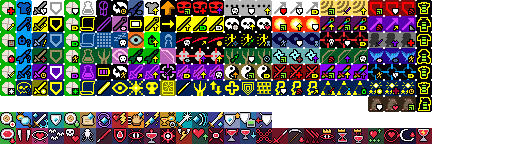
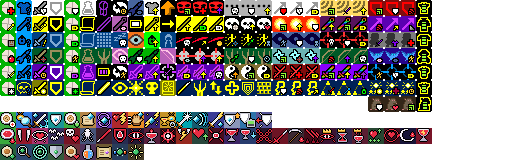
정령사 1·2단계 특성 9개(정령의 식사·정령의 직감·촉매 감응·정령의 보호막 / 정령의 잔치·원소 감응·정령 문자·정령 공명·정령 해방)와 특성 아이콘, 상급 정령 실체화 도트를 32칸 세밀한 도트로 다시 그림(운디네: 푸른 장발의 여성형, 실피드: 날개 달린 여성형, 노움·샐러맨더는 같은 느낌에서 세밀하게)
Claude-Session: https://claude.ai/code/session_01APSKFNB8xpLfNtbCfNBsyA

Changed region(s): [[0.0, 0.875, 0.2812, 1.0]]

diff --git a/core/src/main/java/com/shatteredpixel/shatteredpixeldungeon/actors/hero/Talent.java b/core/src/main/java/com/shatteredpixel/shatteredpixeldungeon/actors/hero/Talent.java
@@ -225,6 +225,11 @@ public enum Talent {
 	ROYAL_PRESENCE(276, 4), ENDLESS_REIGN(277, 4), BLOOD_TRIBUTE(278, 4),
 	FRESH_BLOOD(279, 4), BLOOD_RETURN(280, 4), ENDLESS_NIGHT(281, 4),
 
+	//모드: 정령사 T1
+	SPIRITED_MEAL(288), SPIRIT_INTUITION(289), CATALYST_SENSE(290), SPIRIT_WARD(291),
+	//정령사 T2
+	SPIRIT_FEAST(292), ELEMENTAL_RESONANCE(293), INSCRIBED_SPIRITS(294), SPIRIT_RESONANCE(295), SPIRIT_RELEASE(296),
+
 	//universal T4
 	HEROIC_ENERGY(26, 4), //See icon() and title() for special logic for this one
 	//Ratmogrify T4
@@ -616,6 +621,21 @@ public enum Talent {
 	public static class NatureBerriesDropped extends CounterBuff{{revivePersists = true;}};
 
 	public static void onFoodEaten( Hero hero, float foodVal, Item foodSource ){
+		if (hero.hasTalent(SPIRITED_MEAL)){
+			//정령의 식사: 다음 정령 탄 3/5발의 정령 능력이 1.5배
+			Buff.affect(hero, SpiritedMeal.class).reset(1 + 2*hero.pointsInTalent(SPIRITED_MEAL));
+			if (hero.sprite != null) hero.sprite.emitter().burst(com.shatteredpixel.shatteredpixeldungeon.effects.particles.LeafParticle.GENERAL, 8);
+		}
+		if (hero.hasTalent(SPIRIT_FEAST)){
+			//정령의 잔치: 완드에 깃든 정령 하나당 체력 3/5 회복
+			com.shatteredpixel.shatteredpixeldungeon.items.wands.ForestWand wand = hero.belongings.getItem(com.shatteredpixel.shatteredpixeldungeon.items.wands.ForestWand.class);
+			int n = wand != null ? wand.spiritCount() : 0;
+			int healing = Math.min(n * (1 + 2*hero.pointsInTalent(SPIRIT_FEAST)), hero.HT - hero.HP);
+			if (healing > 0){
+				hero.HP += healing;
+				if (hero.sprite != null) hero.sprite.showStatusWithIcon(CharSprite.POSITIVE, Integer.toString(healing), FloatingText.HEALING);
+			}
+		}
 		if (hero.hasTalent(SANGUINE_MEAL)){
 			//성배에 생명력 3/5
 			com.shatteredpixel.shatteredpixeldungeon.items.artifacts.CrimsonGrail.gainLife(hero, 1 + 2 * hero.pointsInTalent(SANGUINE_MEAL));
@@ -809,6 +829,19 @@ public enum Talent {
 	}
 
 	public static void onScrollUsed( Hero hero, int pos, float factor, Class<?extends Item> cls ){
+		if (hero.hasTalent(INSCRIBED_SPIRITS)
+				&& com.watabou.utils.Random.Float() < factor * hero.pointsInTalent(INSCRIBED_SPIRITS) / 3f){
+			//정령 문자: 1/3, 2/3 확률로 발밑에 강한 정령의 기운이 남음 (깃들이기 촉매)
+			Class<? extends com.shatteredpixel.shatteredpixeldungeon.actors.blobs.SpiritRemnant> r;
+			float roll = com.watabou.utils.Random.Float();
+			if (roll < 0.1f)       r = com.shatteredpixel.shatteredpixeldungeon.actors.blobs.SpiritRemnant.Chaos.class;
+			else if (roll < 0.4f)  r = com.shatteredpixel.shatteredpixeldungeon.actors.blobs.SpiritRemnant.Flame.class;
+			else if (roll < 0.7f)  r = com.shatteredpixel.shatteredpixeldungeon.actors.blobs.SpiritRemnant.Frost.class;
+			else                   r = com.shatteredpixel.shatteredpixeldungeon.actors.blobs.SpiritRemnant.Shock.class;
+			GameScene.add(com.shatteredpixel.shatteredpixeldungeon.actors.blobs.Blob.seed(pos,
+					com.shatteredpixel.shatteredpixeldungeon.actors.blobs.SpiritRemnant.DURATION, r));
+			if (hero.sprite != null) hero.sprite.emitter().burst(Speck.factory(Speck.LIGHT), 5);
+		}
 		if (hero.hasTalent(INSCRIBED_RELICS)){
 			//2/3턴 동안 유물 충전
 			Buff.affect(hero, ArtifactRecharge.class).extend(factor * (1 + hero.pointsInTalent(INSCRIBED_RELICS)));
@@ -872,7 +905,28 @@ public enum Talent {
 	}
 
 	//영웅이 피해를 받은 뒤
+	//원소 감응: 액화 화염·서리 물약이 깨진 자리에 화염·서리 정령의 기운이 15/30턴 남음
+	public static void onElementalPotion( int cell, Class<? extends com.shatteredpixel.shatteredpixeldungeon.actors.blobs.SpiritRemnant> remnant ){
+		Hero hero = Dungeon.hero;
+		if (hero == null || !hero.hasTalent(ELEMENTAL_RESONANCE)) return;
+		GameScene.add(com.shatteredpixel.shatteredpixeldungeon.actors.blobs.Blob.seed(cell, 15*hero.pointsInTalent(ELEMENTAL_RESONANCE), remnant));
+	}
+
 	public static void onHeroDamaged( Hero hero ){
+		if (hero.hasTalent(SPIRIT_WARD) && hero.isAlive() && hero.HP < hero.HT/2
+				&& hero.buff(SpiritWardCooldown.class) == null){
+			//정령의 보호막: 완드 가운데 칸의 정령이 영웅을 감쌈. 최대 체력의 10/15%, 50턴 대기
+			com.shatteredpixel.shatteredpixeldungeon.items.wands.ForestWand wand = hero.belongings.getItem(com.shatteredpixel.shatteredpixeldungeon.items.wands.ForestWand.class);
+			if (wand != null && wand.active() != null){
+				int shield = Math.max(1, Math.round(hero.HT * (0.05f + 0.05f*hero.pointsInTalent(SPIRIT_WARD))));
+				Buff.affect(hero, Barrier.class).setShield(shield);
+				Buff.affect(hero, SpiritWardCooldown.class, 50f);
+				if (hero.sprite != null){
+					hero.sprite.centerEmitter().burst(wand.active().particle(), 12);
+					hero.sprite.showStatusWithIcon(CharSprite.POSITIVE, Integer.toString(shield), FloatingText.SHIELDING);
+				}
+			}
+		}
 		if (hero.hasTalent(EMERGENCY_CHARGE) && hero.isAlive() && hero.HP < hero.HT/2
 				&& hero.buff(EmergencyChargeCooldown.class) == null){
 			//5/8턴 분량 충전, 100턴 대기
@@ -887,6 +941,20 @@ public enum Talent {
 	}
 
 	public static class EmergencyChargeCooldown extends FlavourBuff{}
+	//모드: 정령사
+	public static class SpiritWardCooldown extends FlavourBuff{}
+	public static class SpiritedMeal extends Buff {
+		{ type = buffType.POSITIVE; }
+		private int left = 0;
+		public void reset( int n ){ left = Math.max( left, n ); }
+		public void use(){ if (--left <= 0) detach(); }
+		@Override public int icon() { return BuffIndicator.WAND; }
+		@Override public void tintIcon( Image icon ) { icon.hardlight( 0.4f, 1f, 0.5f ); }
+		@Override public String iconTextDisplay() { return Integer.toString( left ); }
+		@Override public String desc() { return Messages.get( this, "desc", left ); }
+		@Override public void storeInBundle( com.watabou.utils.Bundle b ) { super.storeInBundle( b ); b.put( "left", left ); }
+		@Override public void restoreFromBundle( com.watabou.utils.Bundle b ) { super.restoreFromBundle( b ); left = b.getInt( "left" ); }
+	}
 	public static class QuickHandsCooldown extends FlavourBuff{}
 	public static class RelicResonanceTracker extends FlavourBuff{}
 
@@ -1231,6 +1299,9 @@ public enum Talent {
 			case VAMPIRE:
 				Collections.addAll(tierTalents, SANGUINE_MEAL, SHARP_FANGS, ENTHRALLING_GAZE, BAT_SWARM);
 				break;
+			case ELEMENTALIST:
+				Collections.addAll(tierTalents, SPIRITED_MEAL, SPIRIT_INTUITION, CATALYST_SENSE, SPIRIT_WARD);
+				break;
 		}
 		for (Talent talent : tierTalents){
 			if (replacements.containsKey(talent)){
@@ -1265,6 +1336,9 @@ public enum Talent {
 				break;
 			case VAMPIRE:
 				Collections.addAll(tierTalents, BLOOD_THIRST, MIST_BODY, BLOOD_LANCE, CRIMSON_VEIL, DREADFUL_EYES);
+				break;
+			case ELEMENTALIST:
+				Collections.addAll(tierTalents, SPIRIT_FEAST, ELEMENTAL_RESONANCE, INSCRIBED_SPIRITS, SPIRIT_RESONANCE, SPIRIT_RELEASE);
 				break;
 		}
 		for (Talent talent : tierTalents){

diff --git a/core/src/main/java/com/shatteredpixel/shatteredpixeldungeon/windows/WndForestWand.java b/core/src/main/java/com/shatteredpixel/shatteredpixeldungeon/windows/WndForestWand.java
@@ -8,6 +8,10 @@
 package com.shatteredpixel.shatteredpixeldungeon.windows;
 
 import com.shatteredpixel.shatteredpixeldungeon.Assets;
+import com.shatteredpixel.shatteredpixeldungeon.effects.CellEmitter;
+import com.shatteredpixel.shatteredpixeldungeon.actors.hero.Talent;
+import com.shatteredpixel.shatteredpixeldungeon.actors.Char;
+import com.shatteredpixel.shatteredpixeldungeon.actors.Actor;
 import com.shatteredpixel.shatteredpixeldungeon.Dungeon;
 import com.shatteredpixel.shatteredpixeldungeon.actors.hero.Hero;
 import com.shatteredpixel.shatteredpixeldungeon.actors.hero.HeroSubClass;
@@ -28,6 +32,7 @@ import com.shatteredpixel.shatteredpixeldungeon.ui.RenderedTextBlock;
 import com.shatteredpixel.shatteredpixeldungeon.ui.Window;
 import com.shatteredpixel.shatteredpixeldungeon.utils.GLog;
 import com.watabou.noosa.audio.Sample;
+import com.watabou.utils.PathFinder;
 
 import java.util.ArrayList;
 
@@ -108,6 +113,11 @@ public class WndForestWand extends Window {
 		return Dungeon.hero != null && Dungeon.hero.subClass == HeroSubClass.SPIRIT_ENCHANTER;
 	}
 
+	//정령의 직감 +2: 저주받은 장비에도 정령을 부여하며 저주를 씻어 냄
+	private static boolean cleanses(){
+		return Dungeon.hero != null && Dungeon.hero.pointsInTalent( Talent.SPIRIT_INTUITION ) >= 2;
+	}
+
 	private static boolean contractor(){
 		return Dungeon.hero != null && Dungeon.hero.subClass == HeroSubClass.SPIRIT_CONTRACTOR;
 	}
@@ -145,10 +155,30 @@ public class WndForestWand extends Window {
 					Hero hero = Dungeon.hero;
 					hero.sprite.emitter().burst( Speck.factory( Speck.LIGHT ), 4 );
 					GLog.i( Messages.get( WndForestWand.class, "released", s.title() ) );
-					reopen();
+					if (hero.hasTalent( Talent.SPIRIT_RELEASE )){
+						WndForestWand.this.hide();
+						releaseBurst( hero, s );
+					} else {
+						reopen();
+					}
 				}
 			}
 		} );
+	}
+
+	//정령 해방: 풀려난 정령이 터지며 둘레 1/2칸의 적에게 50/100% 힘으로 능력을 발휘
+	private static void releaseBurst( Hero hero, ForestWand.Spirit s ){
+		int pts = hero.pointsInTalent( Talent.SPIRIT_RELEASE );
+		for (int n : PathFinder.NEIGHBOURS9) CellEmitter.get( hero.pos + n ).burst( s.particle(), 6 );
+		Sample.INSTANCE.play( Assets.Sounds.BLAST, 0.7f );
+		for (Char ch : Actor.chars().toArray( new Char[0] )){
+			if (ch.alignment == Char.Alignment.ENEMY && ch.isAlive()
+					&& Dungeon.level.distance( hero.pos, ch.pos ) <= pts && Dungeon.level.heroFOV[ch.pos]){
+				ForestWand.spiritHit( s, hero, ch, 0, 0.5f * pts );
+			}
+		}
+		hero.sprite.operate( hero.pos );
+		hero.spendAndNext( 1f );
 	}
 
 	//정령 부여: 가운데든 양옆이든, 고른 칸의 정령을 무기·갑옷으로 옮김
@@ -169,7 +199,11 @@ public class WndForestWand extends Window {
 
 				if (item instanceof Weapon){
 					final Weapon w = (Weapon) item;
-					if (w.hasCurseEnchant()){ GLog.w( Messages.get( WndForestWand.class, "cursed" ) ); return; }
+					if (w.hasCurseEnchant()){
+						if (!cleanses()){ GLog.w( Messages.get( WndForestWand.class, "cursed" ) ); return; }
+						w.enchant( null ); w.cursed = false;
+						GLog.p( Messages.get( WndForestWand.class, "cleansed" ) );
+					}
 					//정령 부여사: 이미 정령이 깃든 무기에 하나 더
 					if (enchanter() && w.enchantment instanceof SpiritEnchant){
 						final SpiritEnchant e = (SpiritEnchant) w.enchantment;
@@ -194,7 +228,11 @@ public class WndForestWand extends Window {
 					w.enchant( new SpiritEnchant( s ) );
 				} else {
 					final Armor a = (Armor) item;
-					if (a.hasCurseGlyph()){ GLog.w( Messages.get( WndForestWand.class, "cursed" ) ); return; }
+					if (a.hasCurseGlyph()){
+						if (!cleanses()){ GLog.w( Messages.get( WndForestWand.class, "cursed" ) ); return; }
+						a.inscribe( null ); a.cursed = false;
+						GLog.p( Messages.get( WndForestWand.class, "cleansed" ) );
+					}
 					if (enchanter() && a.glyph instanceof SpiritGlyph){
 						final SpiritGlyph g = (SpiritGlyph) a.glyph;
 						if (g.spirit2 == null){
@@ -243,6 +281,8 @@ public class WndForestWand extends Window {
 
 	private void finish( Item item, ForestWand.Spirit s ){
 		Hero hero = Dungeon.hero;
+		//정령의 직감: 정령을 부여한 장비는 곧바로 감정됨
+		if (hero.hasTalent( Talent.SPIRIT_INTUITION )) item.identify();
 		Item.updateQuickslot();
 		Enchanting.show( hero, item );
 		ForestWand.imbueFx( hero.pos, s );

diff --git a/core/src/main/java/com/shatteredpixel/shatteredpixeldungeon/items/wands/ForestWand.java b/core/src/main/java/com/shatteredpixel/shatteredpixeldungeon/items/wands/ForestWand.java
@@ -9,6 +9,7 @@
 package com.shatteredpixel.shatteredpixeldungeon.items.wands;
 
 import com.shatteredpixel.shatteredpixeldungeon.Assets;
+import com.shatteredpixel.shatteredpixeldungeon.actors.hero.Talent;
 import com.shatteredpixel.shatteredpixeldungeon.windows.WndOptions;
 import com.shatteredpixel.shatteredpixeldungeon.ui.BuffIndicator;
 import com.shatteredpixel.shatteredpixeldungeon.items.scrolls.ScrollOfTeleportation;
@@ -95,6 +96,10 @@ public class ForestWand extends Weapon {
 
 	//촉매에서 정령을 불러올 수 있는 거리
 	public static final int IMBUE_RANGE = 3;
+	//촉매 감응: 깃들이기 거리 +1/+2
+	public static int imbueRange( Hero hero ){
+		return IMBUE_RANGE + (hero != null ? hero.pointsInTalent( Talent.CATALYST_SENSE ) : 0);
+	}
 	//완드에 담을 수 있는 정령 수와 능력이 발현되는 칸 (가운데)
 	public static final int SLOTS = 3;
 	public static final int CENTER = 1;
@@ -287,7 +292,22 @@ public class ForestWand extends Weapon {
 	@Override
 	public int proc( Char attacker, Char defender, int damage ) {
 		Spirit s = active();
-		if (s != null) damage = spiritHit( s, attacker, defender, damage, SHOT_MUL );
+		float mul = SHOT_MUL;
+		//정령의 식사: 음식을 먹은 뒤 몇 발은 정령 능력이 1.5배
+		Talent.SpiritedMeal meal = attacker.buff( Talent.SpiritedMeal.class );
+		if (meal != null && s != null){
+			mul *= 1.5f;
+			meal.use();
+		}
+		if (s != null) damage = spiritHit( s, attacker, defender, damage, mul );
+		//정령 공명: 양옆 칸 정령도 15/30% 확률로 절반의 힘을 보탬
+		if (attacker instanceof Hero && ((Hero) attacker).hasTalent( Talent.SPIRIT_RESONANCE )){
+			float chance = 0.15f * ((Hero) attacker).pointsInTalent( Talent.SPIRIT_RESONANCE );
+			for (int i = 0; i < SLOTS; i++){
+				if (i == CENTER || slots[i] == null || !defender.isAlive()) continue;
+				if (Random.Float() < chance) damage = spiritHit( slots[i], attacker, defender, damage, SHOT_MUL*0.5f );
+			}
+		}
 		return super.proc( attacker, defender, damage );
 	}
 
@@ -973,8 +993,8 @@ public class ForestWand extends Weapon {
 			final Hero hero = curUser;
 			final int cell = target;
 
-			if (!Dungeon.level.heroFOV[cell] || Dungeon.level.distance( hero.pos, cell ) > IMBUE_RANGE){
-				GLog.w( Messages.get( ForestWand.class, "too_far", IMBUE_RANGE ) );
+			if (!Dungeon.level.heroFOV[cell] || Dungeon.level.distance( hero.pos, cell ) > imbueRange( hero )){
+				GLog.w( Messages.get( ForestWand.class, "too_far", imbueRange( hero ) ) );
 				return;
 			}
 
@@ -1015,7 +1035,8 @@ public class ForestWand extends Weapon {
 						hero.sprite.showStatus( s.color, s.title() );
 					}
 					GLog.p( Messages.get( ForestWand.class, slot == CENTER ? "imbued_center" : "imbued_stored", s.title() ) );
-					hero.spendAndNext( 1f );
+					//촉매 감응 +2: 깃들이기에 반 턴만 듦
+					hero.spendAndNext( hero.pointsInTalent( Talent.CATALYST_SENSE ) >= 2 ? 0.5f : 1f );
 				}
 			};
 
@@ -1102,7 +1123,7 @@ public class ForestWand extends Weapon {
 		} else if (cursedKnown && cursed) {
 			info += "\n\n" + Messages.get( Weapon.class, "cursed" );
 		}
-		info += "\n\n" + Messages.get( ForestWand.class, "catalysts", IMBUE_RANGE );
+		info += "\n\n" + Messages.get( ForestWand.class, "catalysts", imbueRange( Dungeon.hero ) );
 		return info;
 	}
 

diff --git a/core/src/main/java/com/shatteredpixel/shatteredpixeldungeon/sprites/GreaterSpiritSprite.java b/core/src/main/java/com/shatteredpixel/shatteredpixeldungeon/sprites/GreaterSpiritSprite.java
@@ -1,6 +1,6 @@
 /*
  * Mirror Pixel Dungeon (Shattered Pixel Dungeon 모드)
- * 상급 정령(운디네·샐러맨더·노움·실피드) 도트: greater_spirits.png 한 줄에 14칸
+ * 상급 정령(운디네·샐러맨더·노움·실피드) 도트: greater_spirits.png 한 줄에 14칸 (32x32, 화면에는 절반 크기)
  *  대기 0-3, 이동 4-7, 공격 8-10, 사라짐 11-13
  */
 
@@ -27,7 +27,10 @@ public abstract class GreaterSpiritSprite extends MobSprite {
 		super();
 
 		texture( Assets.Sprites.GREATER_SPIRITS );
-		TextureFilm frames = new TextureFilm( texture, 16, 16 );
+		//32칸 세밀한 도트를 절반 크기로 그림 (영웅의 세밀한 도트와 같은 방식)
+		TextureFilm frames = new TextureFilm( texture, 32, 32 );
+		HeroSprite.smooth( texture );
+		scale.set( 0.5f );
 		int o = row() * PER_ROW;
 
 		idle = new Animation( 6, true );

diff --git a/core/src/main/java/com/shatteredpixel/shatteredpixeldungeon/items/potions/PotionOfLiquidFlame.java b/core/src/main/java/com/shatteredpixel/shatteredpixeldungeon/items/potions/PotionOfLiquidFlame.java
@@ -54,6 +54,8 @@ public class PotionOfLiquidFlame extends Potion {
 
 			}
 		}
+		//모드: 정령사 특성 '원소 감응'
+		com.shatteredpixel.shatteredpixeldungeon.actors.hero.Talent.onElementalPotion(cell, com.shatteredpixel.shatteredpixeldungeon.actors.blobs.SpiritRemnant.Flame.class);
 	}
 	
 	@Override

diff --git a/core/src/main/java/com/shatteredpixel/shatteredpixeldungeon/items/potions/PotionOfFrost.java b/core/src/main/java/com/shatteredpixel/shatteredpixeldungeon/items/potions/PotionOfFrost.java
@@ -53,6 +53,8 @@ public class PotionOfFrost extends Potion {
 				
 			}
 		}
+		//모드: 정령사 특성 '원소 감응'
+		com.shatteredpixel.shatteredpixeldungeon.actors.hero.Talent.onElementalPotion(cell, com.shatteredpixel.shatteredpixeldungeon.actors.blobs.SpiritRemnant.Frost.class);
 		
 	}
 	
